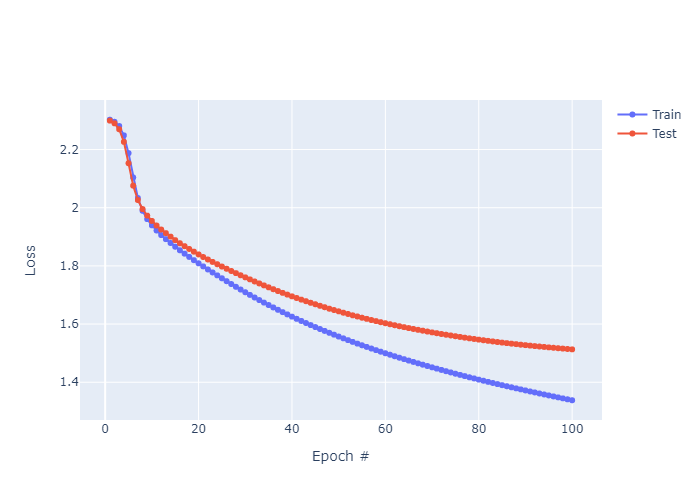
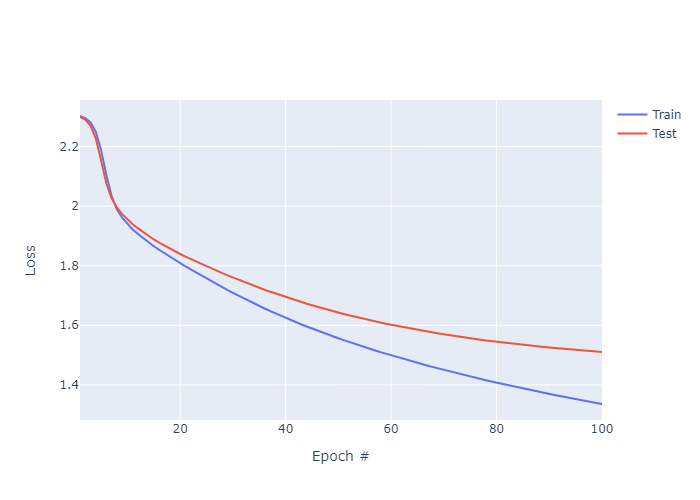
added accuracy graphs to each experiment

diff --git a/HW4/experiments.py b/HW4/experiments.py
@@ -16,15 +16,21 @@ def exp_1(num_epochs=100, lr=0.00005):
     optimizer = torch.optim.Adam(model.parameters(), lr=lr)
     train_losses = []
     test_losses = []
+    train_accs = []
+    test_accs = []
     t = trange(num_epochs)
     for epoch in t:
-        train_loss = train_epoch(criterion=criterion, net=model, optim=optimizer, train_loader=train_dl)
-        test_loss = test_epoch(criterion=criterion, net=model, test_loader=test_dl)
-        t.set_postfix_str(f"train loss={round(train_loss,3)}, test loss={round(test_loss,3)}")
+        train_loss, train_acc = train_epoch(criterion=criterion, net=model, optim=optimizer, train_loader=train_dl)
+        test_loss, test_acc = test_epoch(criterion=criterion, net=model, test_loader=test_dl)
+        t.set_postfix_str(f"train loss={round(train_loss,3)}, test loss={round(test_loss,3)}, "
+                          f"train_acc={round(train_acc,3)}, test_acc={round(test_acc,3)}")
         train_losses.append(train_loss)
         test_losses.append(test_loss)
+        train_accs.append(train_acc)
+        test_accs.append(test_acc)
 
     plot_result({"Train": train_losses, "Test": test_losses}, metric="loss", title="train_test_loss_gap")
+    plot_result({"Train": train_accs, "Test": test_accs}, metric="accuracy", title="train_test_acc_gap")
 
 
 def exp_2(num_epochs=150, lr=0.001):
@@ -35,12 +41,16 @@ def exp_2(num_epochs=150, lr=0.001):
     print("Number of parameters in model:", sum(p.numel() for p in model.parameters() if p.requires_grad))
     optimizer = torch.optim.Adam(model.parameters(), lr=lr)
     train_losses = []
+    train_accs = []
     t = trange(num_epochs)
     for epoch in t:
-        train_loss = train_epoch(criterion=criterion, net=model, optim=optimizer, train_loader=train_dl)
-        t.set_postfix_str(f"train loss={round(train_loss, 3)}")
+        train_loss, train_acc = train_epoch(criterion=criterion, net=model, optim=optimizer, train_loader=train_dl)
+        t.set_postfix_str(f"train loss={round(train_loss, 3)}, "
+                          f"train_acc={round(train_acc, 3)}")
         train_losses.append(train_loss)
+        train_accs.append(train_acc)
 
+    plot_result({"Train": train_accs}, metric="accuracy", title="train_acc_random_data")
     plot_result({"Train": train_losses}, metric="loss", title="train_loss_random_data")
 
 
@@ -53,15 +63,21 @@ def exp_3(num_epochs=100, lr=0.00033):
     optimizer = torch.optim.Adam(model.parameters(), lr=lr)
     train_losses = []
     test_losses = []
+    train_accs = []
+    test_accs = []
     t = trange(num_epochs)
     for epoch in t:
-        train_loss = train_epoch(criterion=criterion, net=model, optim=optimizer, train_loader=train_dl)
-        test_loss = test_epoch(criterion=criterion, net=model, test_loader=test_dl)
-        t.set_postfix_str(f"train loss={round(train_loss, 3)}, test loss={round(test_loss, 3)}")
+        train_loss, train_acc = train_epoch(criterion=criterion, net=model, optim=optimizer, train_loader=train_dl)
+        test_loss, test_acc = test_epoch(criterion=criterion, net=model, test_loader=test_dl)
+        t.set_postfix_str(f"train loss={round(train_loss, 3)}, test loss={round(test_loss, 3)}, "
+                          f"train_acc={round(train_acc, 3)}, test_acc={round(test_acc, 3)}")
         train_losses.append(train_loss)
         test_losses.append(test_loss)
+        train_accs.append(train_acc)
+        test_accs.append(test_acc)
 
-    plot_result({"Train": train_losses, "Test": test_losses}, metric="loss", title="generalization_half_random")
+    plot_result({"Train": train_losses, "Test": test_losses}, metric="loss", title="generalization_half_random_loss")
+    plot_result({"Train": train_accs, "Test": test_accs}, metric="accuracy", title="generalization_half_random_acc")
 
 
 def exp_4(num_epochs=100, lr=0.00033):
@@ -73,12 +89,21 @@ def exp_4(num_epochs=100, lr=0.00033):
     optimizer = torch.optim.Adam(model.parameters(), lr=lr)
     train_losses = []
     test_losses = []
+    train_accs = []
+    test_accs = []
+
     t = trange(num_epochs)
     for epoch in t:
-        train_loss = train_epoch(criterion=criterion, net=model, optim=optimizer, train_loader=train_dl)
-        test_loss = test_epoch(criterion=criterion, net=model, test_loader=test_dl)
-        t.set_postfix_str(f"train loss={round(train_loss, 3)}, test loss={round(test_loss, 3)}")
+        train_loss, train_acc = train_epoch(criterion=criterion, net=model, optim=optimizer, train_loader=train_dl)
+        test_loss, test_acc = test_epoch(criterion=criterion, net=model, test_loader=test_dl)
+        t.set_postfix_str(f"train loss={round(train_loss, 3)}, test loss={round(test_loss, 3)}, "
+                          f"train_acc={round(train_acc, 3)}, test_acc={round(test_acc, 3)}")
         train_losses.append(train_loss)
         test_losses.append(test_loss)
+        train_accs.append(train_acc)
+        test_accs.append(test_acc)
 
-    plot_result({"Train": train_losses, "Test": test_losses}, metric="loss", title="generalization_half_adversarial")
+    plot_result({"Train": train_losses, "Test": test_losses}, metric="loss",
+                title="generalization_half_adversarial_loss")
+    plot_result({"Train": train_accs, "Test": test_accs}, metric="accuracy",
+                title="generalization_half_adversarial_acc")

diff --git a/HW4/training.py b/HW4/training.py
@@ -9,23 +9,28 @@ def train_epoch(net: nn.Module,
                 criterion: nn.Module,
                 train_loader: torch.utils.data.DataLoader):
     epoch_loss = 0.0
+    num_correct = 0
     for data in train_loader:
         inputs, targets = data
         inputs, targets = inputs.to(device), targets.to(device)
         optim.zero_grad()
         outputs = net(inputs)
+        preds = torch.argmax(outputs, dim=1)
+        num_correct += torch.sum(torch.eq(preds, targets)).item()
         loss = criterion(outputs, targets)
         loss.backward()
         optim.step()
         epoch_loss += loss.item()
     epoch_loss /= len(train_loader)
-    return epoch_loss
+    epoch_acc = num_correct / len(train_loader.dataset)
+    return epoch_loss, epoch_acc
 
 
 def test_epoch(net: nn.Module,
                criterion: nn.Module,
                test_loader: torch.utils.data.DataLoader):
     epoch_loss = 0.0
+    num_correct = 0
     net.zero_grad()
     net.eval()
     with torch.no_grad():
@@ -33,7 +38,10 @@ def test_epoch(net: nn.Module,
             inputs, targets = data
             inputs, targets = inputs.to(device), targets.to(device)
             outputs = net(inputs)
+            preds = torch.argmax(outputs, dim=1)
+            num_correct += torch.sum(torch.eq(preds, targets)).item()
             loss = criterion(outputs, targets)
             epoch_loss += loss.item()
     epoch_loss /= len(test_loader)
-    return epoch_loss
+    epoch_acc = num_correct / len(test_loader.dataset)
+    return epoch_loss, epoch_acc

diff --git a/HW4/main.py b/HW4/main.py
@@ -7,17 +7,17 @@ device = torch.device('cuda' if torch.cuda.is_available() else 'cpu')
 def main():
     torch.manual_seed(0)
 
-    # outputs train_test_loss_gap.png
-    exp_1()
+    # outputs train_test_loss_gap.png and train_test_acc_gap.png
+    # exp_1()
 
-    # outputs train_loss_random_data.png
+    # outputs train_loss_random_data.png and train_acc_random_data.png
     exp_2()
 
-    # outputs generalization_half_random.png
-    exp_3()
+    # outputs generalization_half_random_loss.png and ..._acc.png
+    # exp_3()
 
-    # outputs generalization_half_adversarial.png
-    exp_4()
+    # outputs generalization_half_adversarial_loss.png and ..._acc.png
+    # exp_4()
 
 
 if __name__ == '__main__':

diff --git a/HW4/plotting.py b/HW4/plotting.py
@@ -6,7 +6,7 @@ def plot_result(vals_dict: dict, metric: str, path: str = "./results", title: st
     fig = go.Figure()
     for key, val in vals_dict.items():
         N = len(val)
-        fig.add_trace(go.Scatter(x=np.arange(1, N + 1), y=val, mode='lines+markers', name=key))
+        fig.add_trace(go.Scatter(x=np.arange(1, N + 1), y=val, mode='lines', name=key))
 
     fig.update_layout(
         xaxis_title="Epoch #",
